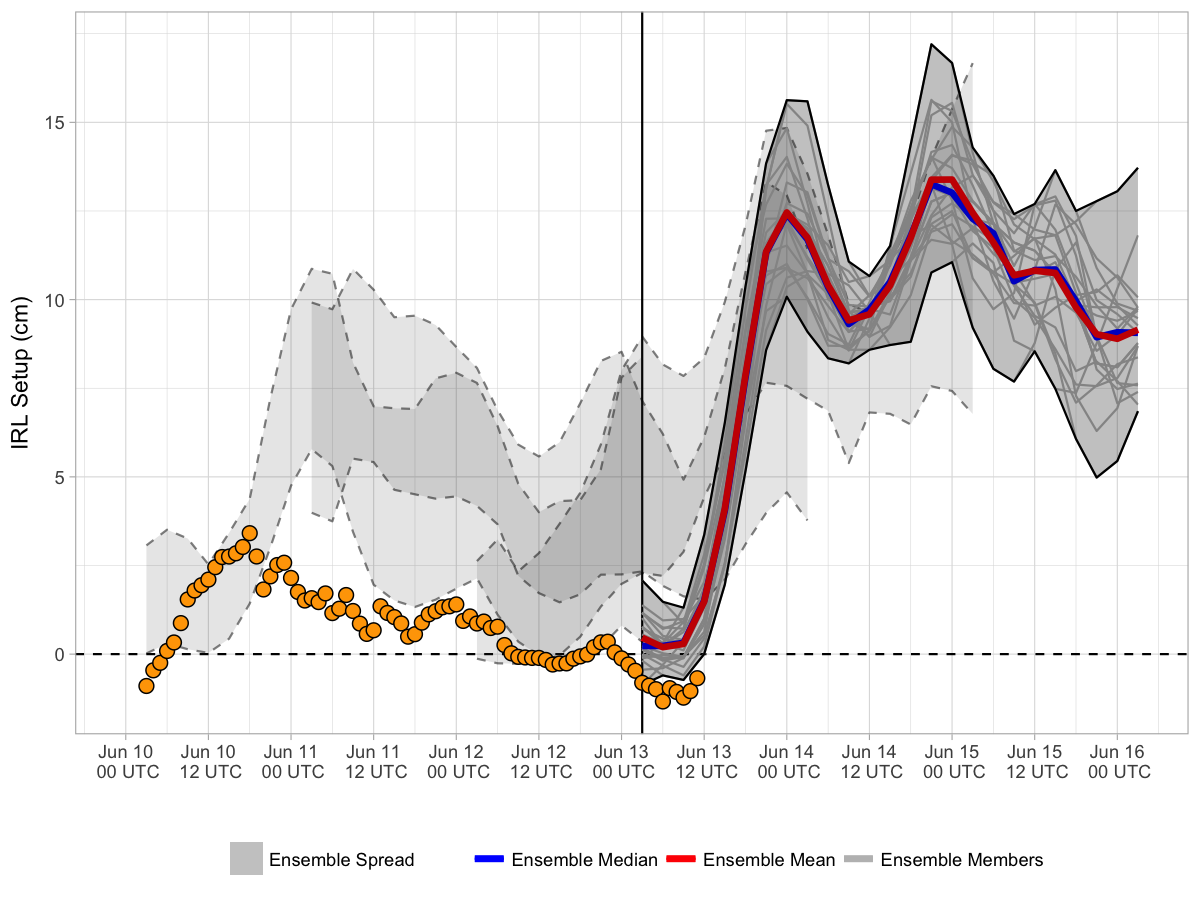
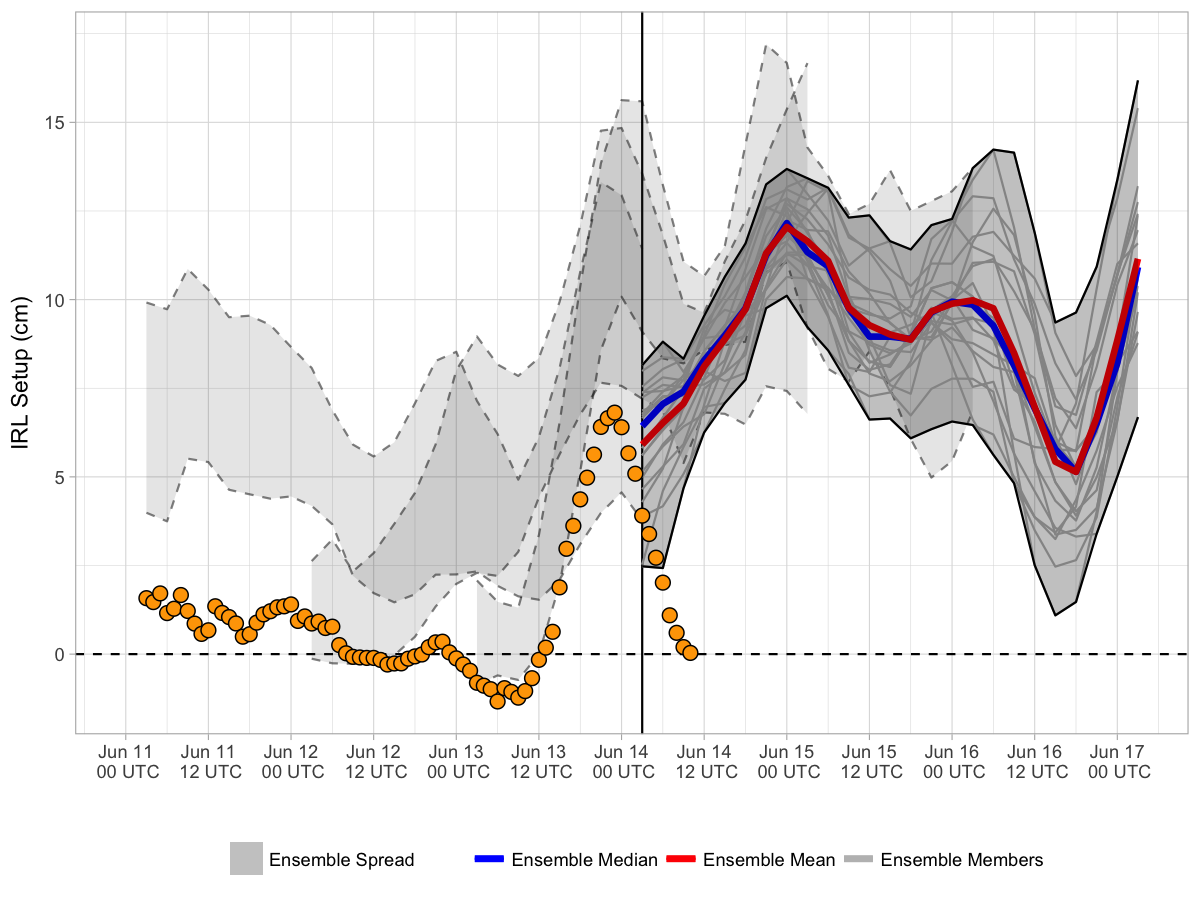
20170614 forecast update

Changed region(s): [[0.0925, 0.0311, 0.9558, 0.8089]]

diff --git a/docs/index.md b/docs/index.md
@@ -3,7 +3,7 @@ Current Forecast
 
 [![](img/raw_setup.png)](https://bhlmn.github.io/IRLSetup/img/raw_setup.png)
 
-> Forecast valid 2017-06-13 07:23:29.
+> Forecast valid 2017-06-14 06:57:52.
 
 Explanation
 -----------
@@ -15,7 +15,7 @@ water elevation in the northern IRL (near Titusville), and negative
 setup indicates the increase elevation in the southern IRL (near
 Sebastian). The x-axis displays the date and time in UTC. The solid
 vertical line represents the beginning of the most recent ensemble
-forecast (currently 2017-06-12 18:00:00). For this most recent forecast,
+forecast (currently 2017-06-13 18:00:00). For this most recent forecast,
 the ensemble spread (grey shading) is bound by solid black lines, with
 individual members represented by faint grey lines. The ensemble mean
 and median for this are represented by the red and blue curves,
